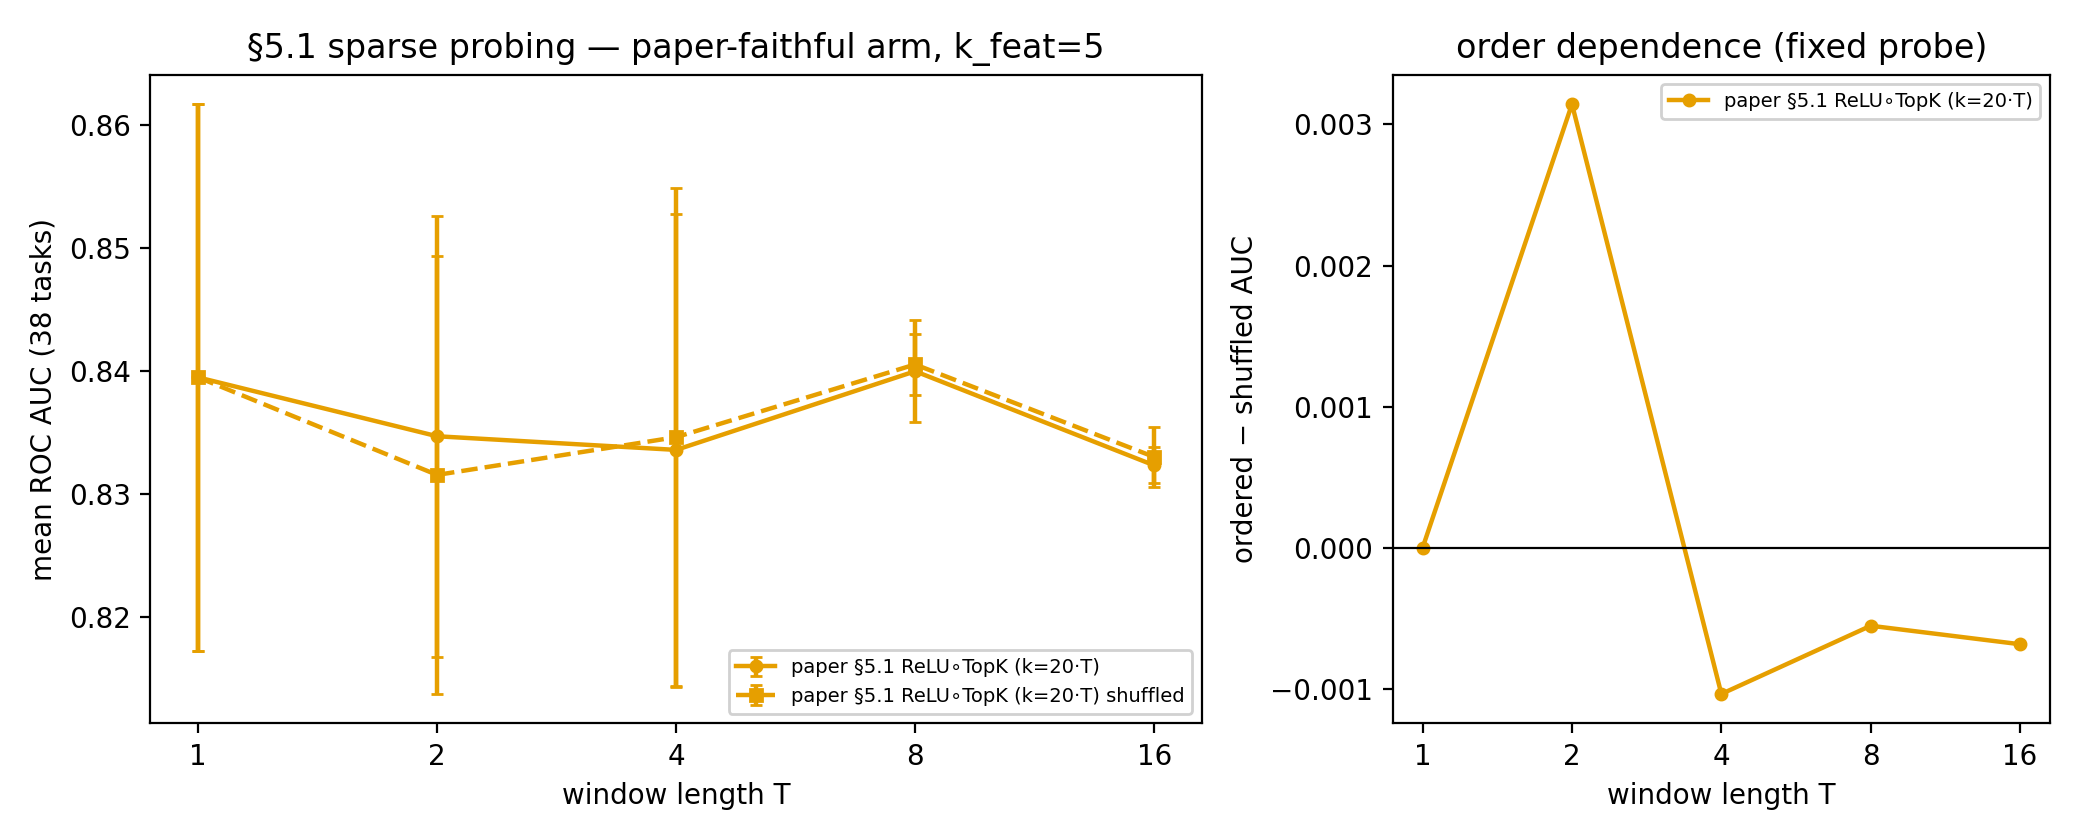
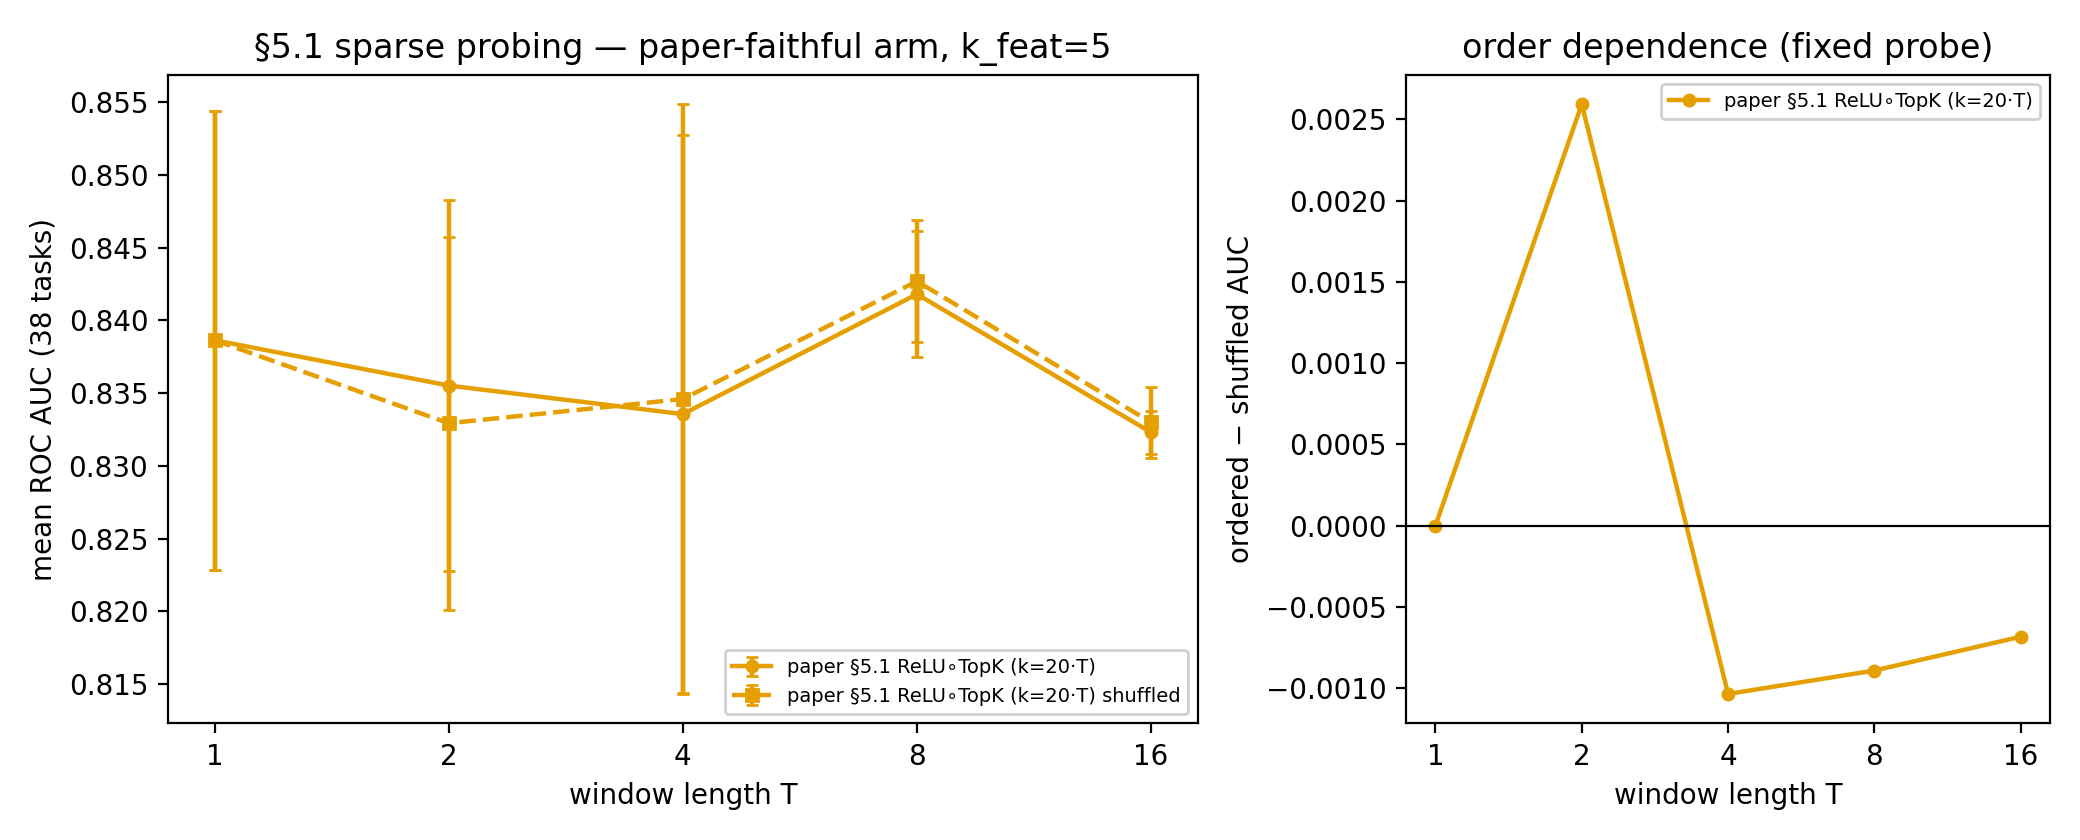
runpod-1: ⚑⚑ card §9 FORMAL SCORING on 21/21 — E1 CONFIRMED (monotone onset T6-T8), E2 NOT CONFIRMED (null; pf probes equivalent to btk at matched budget), E3 PASS; pf renders regenerated

diff --git a/experiments/explorations/task_hunt/LOG.md b/experiments/explorations/task_hunt/LOG.md
@@ -20693,3 +20693,41 @@ substrate rebuild (stage A ~3 min) — hub runs it now so the venue
 is G1-ready. Both receipted here when done.
 
 _Recorded-by: claude-fable-5 (mac-local, orchestrator)_
+
+## 2026-07-28 07:11 London (date-verified 06:11 UTC) — runpod-1 — ⚑⚑ CARD §9 FORMAL SCORING (render trigger 6e928e2bb): E1 CONFIRMED · E2 NOT CONFIRMED (null) · E3 PASS — pf renders regenerated on 21/21
+
+Fold-in executed on the complete grid (42 pf rows incl. the
+repatriated pod-B cells; gates PASS; RESULTS_paper-faithful.md +
+figs/tsweep_paper-faithful_k{5,20} regenerated).
+
+**E1 (zero-picks appear and grow with T) — CONFIRMED.** Mean
+zero-picks/window (k_win − realized l0, k5 rows): T1 0.00 · T2
+0.00 · T4 0.00 · T6 0.00 · T8 0.04 · T10 0.20 · T16 0.46.
+Monotone onset exactly between T6 and T8, growing through T16 —
+the pre-registered direction. Magnitude at EVAL is tiny (0.46 =
+0.14% of the T16 budget) even though training telemetry shows the
+selection boundary negative at ~93% of sampled steps at T16: the
+composition's contact is frequent per step, narrow per window.
+
+**E2 (pf ≤ btk at T≥8) — NOT CONFIRMED; verdict NULL/MIXED.**
+Paired slots (pf − btk, seed-mean e−3): T8 k5 +11.9 (3/3 ABOVE —
+the strongest column, opposite the prediction) / k20 −4.8 · T10
+k5 +3.5 / k20 −5.3 · T16 k5 −5.0 (3/3 below) / k20 −0.6. Slots:
+10 below / 8 at-or-above of 18; one-sided sign P ≈ 0.41. **Under
+matched training budgets the paper's ReLU∘TopK composition probes
+EQUIVALENTLY to BatchTopK at high T** — the composition fix's
+significance is the selection-contact mechanism (census +
+telemetry receipts), not a probing-metric gap. No k- or T-
+consistent direction survives; per-column magnitudes ≤1.2e−2.
+
+**E3 — PASS** (1300ed2a5): anchors interpolate T4–T6 both k.
+
+T1 anchor note: pf and btk differ at T1 by seed-noise-scale mixed
+signs (±e−3–e−2) — per-sample vs batch-level selection are
+different programs even at T1; no systematic gap.
+
+Card §9 scoring closed. Hub: renders + verdicts ready for
+ratification; 11:00 protected btk renders unaffected and still
+mine. PTR.
+
+_Recorded-by: claude-fable-5 (runpod-1)_

diff --git a/experiments/probing/actmix/RESULTS_paper-faithful.md b/experiments/probing/actmix/RESULTS_paper-faithful.md
@@ -8,10 +8,10 @@ Verdict discipline: PENDING TEAM REVIEW. Gates (CARD § 5):
 
 | T | paper-v1t | paper-v1t shuf | l0 v1t |
 |---|---|---|---|
-| 1 | 0.8395 ± 0.0222 (n=2) | 0.8395 ± 0.0222 (n=2) | 19.9966 ± 0.0048 (n=2) |
-| 2 | 0.8347 ± 0.0179 (n=2) | 0.8315 ± 0.0178 (n=2) | 40.0000 ± 0.0000 (n=2) |
+| 1 | 0.8386 ± 0.0158 (n=3) | 0.8386 ± 0.0158 (n=3) | 19.9975 ± 0.0038 (n=3) |
+| 2 | 0.8355 ± 0.0128 (n=3) | 0.8329 ± 0.0128 (n=3) | 40.0000 ± 0.0000 (n=3) |
 | 4 | 0.8336 ± 0.0192 (n=3) | 0.8346 ± 0.0203 (n=3) | 80.0000 ± 0.0000 (n=3) |
-| 8 | 0.8400 ± 0.0042 (n=2) | 0.8405 ± 0.0025 (n=2) | 159.9542 ± 0.0154 (n=2) |
+| 8 | 0.8418 ± 0.0044 (n=3) | 0.8427 ± 0.0042 (n=3) | 159.9574 ± 0.0122 (n=3) |
 | 16 | 0.8323 ± 0.0015 (n=3) | 0.8330 ± 0.0025 (n=3) | 319.5383 ± 0.0785 (n=3) |
 
 | per-token band | AUC (T-invariant) | realized l0 |
@@ -25,10 +25,10 @@ untrained twins (seed 42):
 
 | T | paper-v1t | paper-v1t shuf | l0 v1t |
 |---|---|---|---|
-| 1 | 0.8972 ± 0.0010 (n=2) | 0.8972 ± 0.0010 (n=2) | 19.9966 ± 0.0048 (n=2) |
-| 2 | 0.9013 ± 0.0030 (n=2) | 0.8984 ± 0.0020 (n=2) | 40.0000 ± 0.0000 (n=2) |
+| 1 | 0.8965 ± 0.0013 (n=3) | 0.8965 ± 0.0013 (n=3) | 19.9975 ± 0.0038 (n=3) |
+| 2 | 0.9025 ± 0.0030 (n=3) | 0.9004 ± 0.0037 (n=3) | 40.0000 ± 0.0000 (n=3) |
 | 4 | 0.8963 ± 0.0047 (n=3) | 0.8922 ± 0.0101 (n=3) | 80.0000 ± 0.0000 (n=3) |
-| 8 | 0.8836 ± 0.0022 (n=2) | 0.8788 ± 0.0025 (n=2) | 159.9542 ± 0.0154 (n=2) |
+| 8 | 0.8855 ± 0.0036 (n=3) | 0.8814 ± 0.0048 (n=3) | 159.9574 ± 0.0122 (n=3) |
 | 16 | 0.8788 ± 0.0010 (n=3) | 0.8766 ± 0.0010 (n=3) | 319.5383 ± 0.0785 (n=3) |
 
 | per-token band | AUC (T-invariant) | realized l0 |
